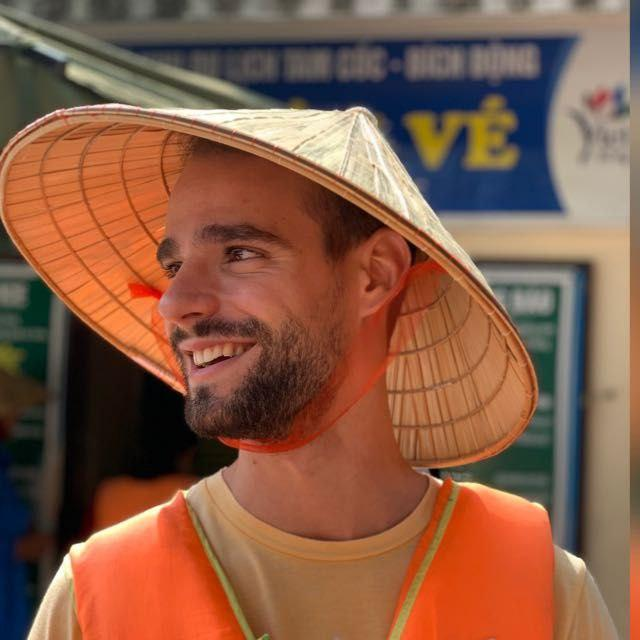
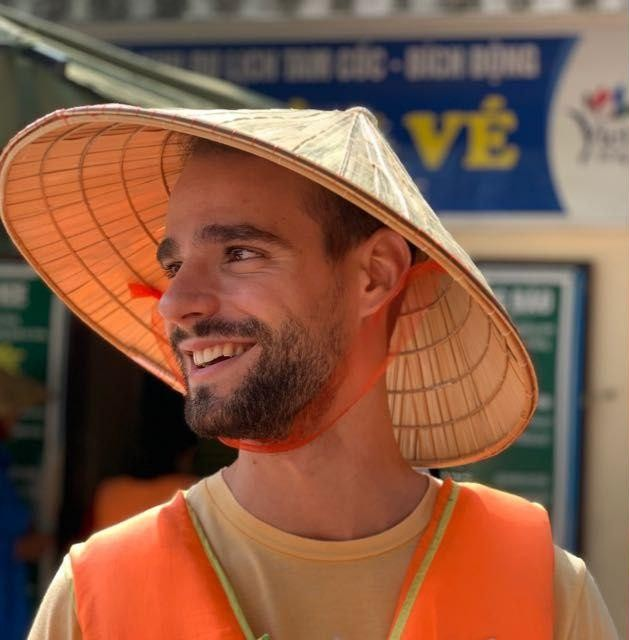
about

diff --git a/_pages/about.md b/_pages/about.md
@@ -4,9 +4,9 @@ title: About
 permalink: /about/
 ---
 
-Welcome to my blog about Artificial Intelligence! My name is Arnau and I am a computer scientist from Barcelona. I started my career working on embedded systems, learning to program, focusing on optimizing computing power and shrinking memory space. I recently developed an interest in artificial intelligence and started to learn as much as possible about it! I will use this blog to post about everything I find interesting and to share small projects I develop to further my knowledge.
+Welcome to my blog about Artificial Intelligence! My name is Arnau and I am a computer scientist from Barcelona. I started my career working on embedded systems, learning to program, focusing on optimizing computing power and shrinking memory space. I recently developed an interest in Artificial Intelligence and started to learn as much as possible about it! I will use this blog to post about everything I find interesting and to share small projects I develop to further my knowledge.
 
-![placeholder](/images/profile.jpg){:style="display:block; margin-left:auto; margin-right:auto"}
+![placeholder](/images/profile.jpg){:style="display:block; margin-left:auto; margin-right:auto;"  width="60%"}
 
 
 ## A little bit more about myself
